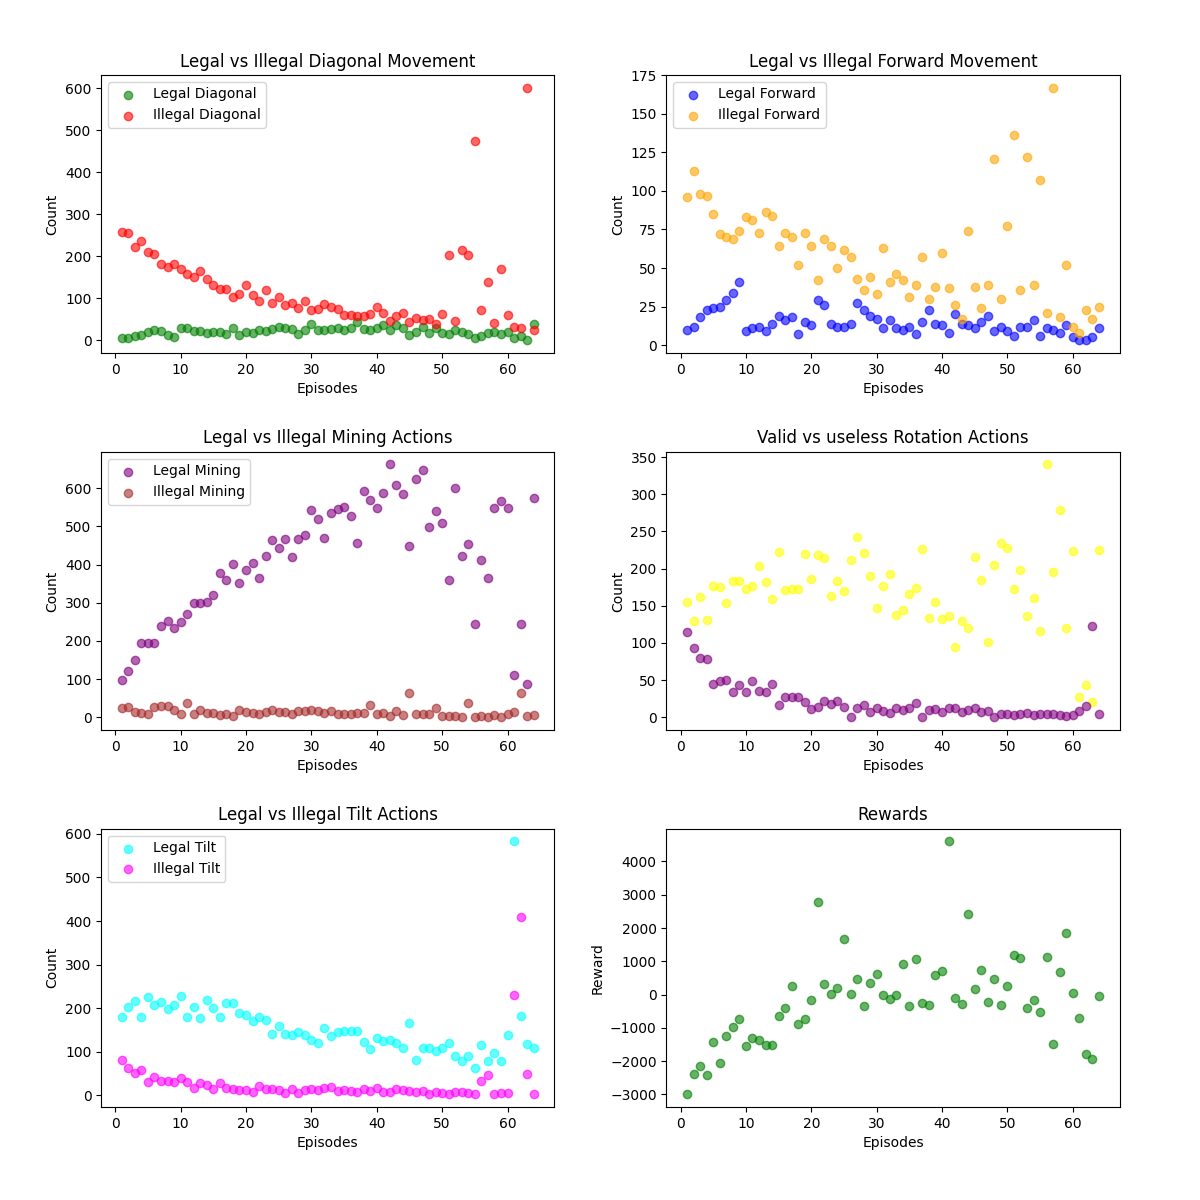
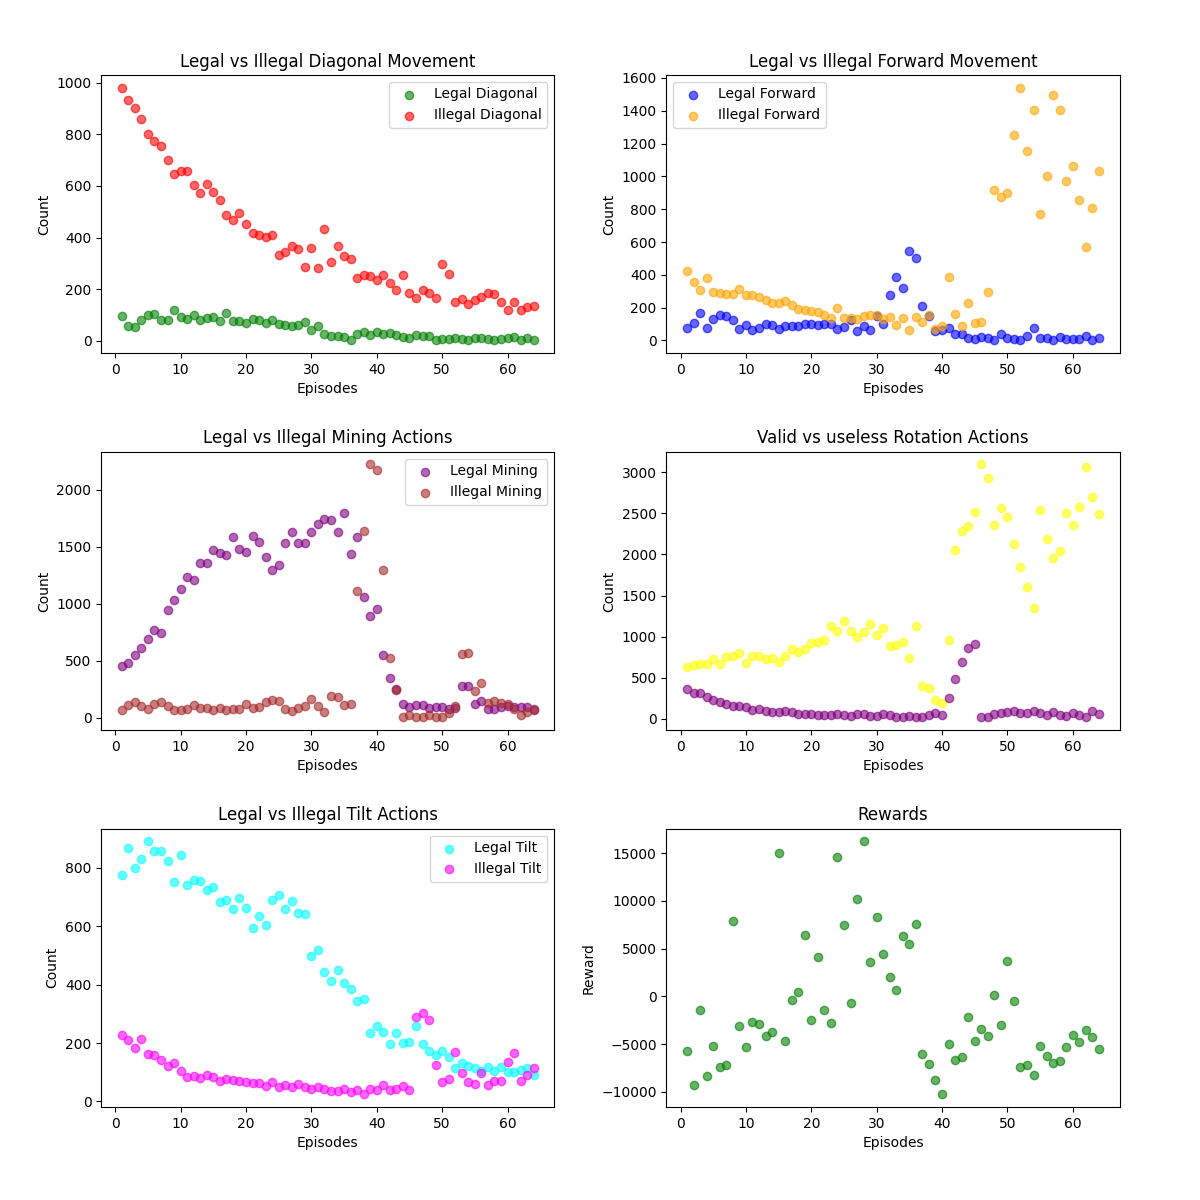
surrounding-direction-tilt-disconnect

diff --git a/minecraft_agent_env.py b/minecraft_agent_env.py
@@ -7,13 +7,20 @@ import socket
 import json
 import time
 
-actions = ["turn-right", "turn-left", "move-forward", "mine", "tilt-down", "tilt-up", "forward-up", "forward-down"]
-directions = ["targetBlock", "behindTop", "behindBottom", "leftTop", "forwardTop", "rightBottom","leftBottom", "up", "forwardBottom", "down", "rightTop", "forwardAbove", "forwardBelow"]
+actions = ["turn-right", "turn-left", "move-forward", "mine", "mine-lower", "tilt-down", "tilt-up", "forward-up", "forward-down"]
+block_directions = ["targetBlock", "down", "up",
+                "underEast", "underWest", "underNorth", "underSouth",
+                  "lowerEast", "lowerWest","lowerNorth", "lowerSouth",
+                    "upperEast", "upperWest", "upperNorth", "upperSouth",
+                        "aboveEast", "aboveWest", "aboveNorth", "aboveSouth"]
+directions = ["NORTH", "SOUTH", "EAST", "WEST"]
+tilt_values = [-90,-45,0,45,90]
+
 
 
 
 class MinecraftAgentEnv(gym.Env):
-    def __init__(self, host="localhost", port=5000, max_steps=1024):
+    def __init__(self, host="localhost", port=5000, max_steps=4096):
         super(MinecraftAgentEnv, self).__init__()
 
         self.host = host
@@ -26,12 +33,11 @@ class MinecraftAgentEnv(gym.Env):
         x_max, y_max, z_max = 128, 62, 128
         self.coordinate_space = spaces.MultiDiscrete([x_max + 1, y_max + 1, z_max + 1])
 
-        tilt_values = [-90,-45,0,45,90]
         self.tilt_space = spaces.Discrete(len(tilt_values))
 
-        # Surrounding block space (12 blocks surrounding the player + 1 target block)
+        # Surrounding block space (18 blocks surrounding the player + 1 target block)
         num_block_types = len(BLOCK_MAPPINGS)
-        self.surrounding_block_space = spaces.MultiDiscrete([num_block_types] * len(directions))
+        self.surrounding_block_space = spaces.MultiDiscrete([num_block_types] * len(block_directions))
 
         # Observation space as a combination of coordinates and surrounding blocks
         self.observation_space = spaces.Tuple((
@@ -40,8 +46,8 @@ class MinecraftAgentEnv(gym.Env):
             self.tilt_space
         ))
 
-        # Action space: 8 discrete actions (turn-left, turn-right, forward, tilt-up, tilt-down, forward-up, forward-down and mine)
-        self.action_space = spaces.Discrete(8)
+        # Action space: 9 discrete actions (turn-left, turn-right, forward, tilt-up, tilt-down, forward-up, forward-down, mine, mine-lower)
+        self.action_space = spaces.Discrete(9)
 
         self.max_steps = max_steps
         self.step_count = 0
@@ -87,6 +93,9 @@ class MinecraftAgentEnv(gym.Env):
 
     def _receive_state(self):
         state_data = self.client_socket.recv(1024).decode('utf-8').strip()
+        if state_data == "/disconnect":
+            self.close()
+
 
         try:
             state_json = json.loads(state_data)
@@ -94,7 +103,8 @@ class MinecraftAgentEnv(gym.Env):
             x,y,z = state_json.get("x", 0), state_json.get("y", 0), state_json.get("z", 0)
             encoded_coordinates = np.array([x,y,z], dtype=np.float32)
 
-            tilt = state_json.get("tilt", 0)
+            raw_tilt = state_json.get("tilt", 0)
+            tilt_index = tilt_values.index(raw_tilt)
 
             action_result = state_json.get("actionResult", "unknown")
             print(action_result)
@@ -103,15 +113,10 @@ class MinecraftAgentEnv(gym.Env):
 
             surrounding_blocks = [
                 BLOCK_MAPPINGS.get(surrounding_blocks_dict.get(direction, "AIR"), 0) 
-                for direction in directions
+                for direction in block_directions
             ]
-            """
-            observation = {
-                "coordinates": encoded_coordinates,
-                "tilt": tilt,
-                "surrounding_blocks": np.array(surrounding_blocks, )
-            }"""
-            state = np.concatenate([encoded_coordinates, surrounding_blocks, [tilt]])
+            
+            state = np.concatenate([encoded_coordinates, surrounding_blocks, [tilt_index]])
             return state, action_result
         except json.JSONDecodeError:
             print("Failed to decode json from plugin")

diff --git a/mappings/reward_mappings.py b/mappings/reward_mappings.py
@@ -1,8 +1,8 @@
 REWARD_MAPPINGS = {
-    "successful-forward": 0.3,
-    "illegal-forward": -5,
+    "successful-forward": 0.2,
+    "illegal-forward": -3,
 
-    "successful-diag": 0.1,
+    "successful-diag": 0,
     "illegal-diag": -5,
 
     "rotation": -0.2,
@@ -11,12 +11,12 @@ REWARD_MAPPINGS = {
     "successful-tilt": -0.5,
     "illegal-tilt": -5,
 
-    "illegal-mine": 0,
-    "successful-mine-deepslate": 0,
-    "successful-mine-deepslate_copper_ore": 128,
-    "successful-mine-deepslate_gold_ore": 128,
-    "successful-mine-deepslate_lapis_ore": 128,
-    "successful-mine-deepslate_redstone_ore": 128,  
-    "successful-mine-deepslate_iron_ore": 256,
-    "successful-mine-deepslate_diamond_ore": 512
+    "illegal-mine": -4,
+    "successful-mine-deepslate": 0.3,
+    "successful-mine-deepslate_copper_ore": 256,
+    "successful-mine-deepslate_gold_ore": 256,
+    "successful-mine-deepslate_lapis_ore": 256,
+    "successful-mine-deepslate_redstone_ore": 256,  
+    "successful-mine-deepslate_iron_ore": 512,
+    "successful-mine-deepslate_diamond_ore": 2048
 }

diff --git a/q_network.py b/q_network.py
@@ -4,17 +4,11 @@ import torch.nn as nn
 class QNetwork(nn.Module):
     def __init__(self, observation_size, action_size):
         super(QNetwork, self).__init__()
-        """
-        coordinates_size = observation_space[0].nvec.size
-        surrounding_blocks_size = len(observation_space[1].nvec)
-        tilt_size = observation_space[2].n
-
-        input_size = coordinates_size + surrounding_blocks_size + tilt_size
-        """
 
         self.fc1 = nn.Linear(observation_size, 128)
         self.fc2 = nn.Linear(128, 64)
-        self.fc3 = nn.Linear(64, action_size)
+        self.fc3 = nn.Linear(64,32)
+        self.fc4 = nn.Linear(32, action_size)
 
     def forward(self, x):
         coordinates = x[:, :3].float()
@@ -25,6 +19,7 @@ class QNetwork(nn.Module):
 
         x = torch.relu(self.fc1(x))
         x = torch.relu(self.fc2(x))
-        q_values = self.fc3(x)
+        x = torch.relu(self.fc3(x))
+        q_values = self.fc4(x)
 
         return q_values

diff --git a/diamond_ai_model.py b/diamond_ai_model.py
@@ -9,8 +9,8 @@ import torch
 
 # Hyperparameters
 num_episodes = 64
-learning_rate = 0.001
-update_target_freq = 4
+learning_rate = 0.0001
+update_target_freq = 2
 batch_size = 64
 gamma = 0.9995
 epsilon_start = 1.0
@@ -64,10 +64,6 @@ for episode in range(num_episodes):
             with torch.no_grad():
                 state_tensor = torch.FloatTensor(state).unsqueeze(0)
                 action = torch.argmax(q_network(state_tensor), dim=1).item()
-
-        
-
-        
 
         next_state, reward, done, result = env.step(action)
         match result:

diff --git a/neat_model.py b/neat_model.py
@@ -2,10 +2,10 @@ import neat
 import numpy as np
 from minecraft_agent_env import MinecraftAgentEnv
 
+env = MinecraftAgentEnv()
 
 def eval_genome(genome, config):
     net = neat.nn.FeedForwardNetwork.create(genome, config)
-    env = MinecraftAgentEnv()
     state, _ = env.reset()
 
     done = False
